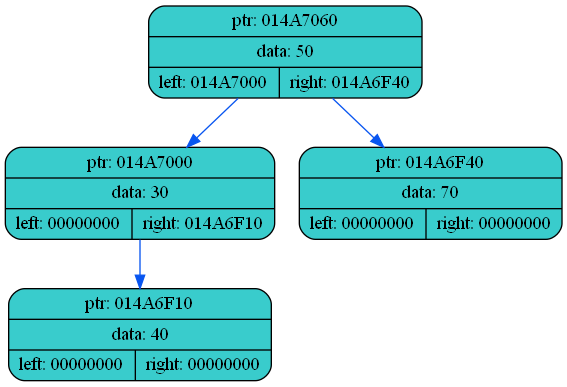
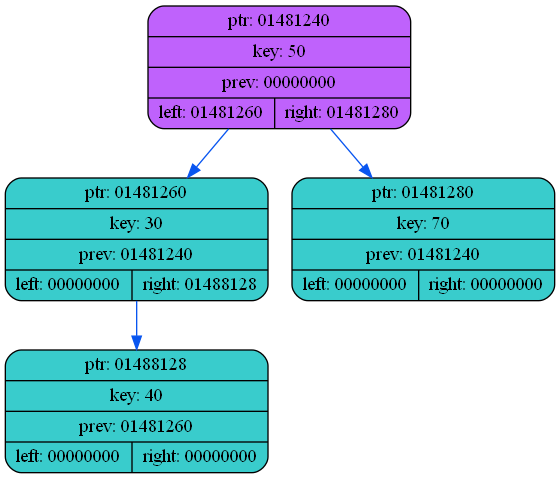
bintree completed

Changed region(s): [[0.2429, 0.0, 1.0, 0.6512], [0.0, 0.3411, 0.4857, 0.9922]]

diff --git a/src/bin_tree.cpp b/src/bin_tree.cpp
@@ -1,6 +1,6 @@
 #include "bin_tree.h"
 
-node_t* new_node(int data, node_t* left, node_t* right)
+node_t* new_node(int key, node_t* left, node_t* right)
 {
     node_t* node = (node_t*)calloc(1, sizeof(node_t));
     if (!node)
@@ -8,127 +8,25 @@ node_t* new_node(int data, node_t* left, node_t* right)
         fprintf(stderr, "ERROR: Calloc returned NULL in new_node()");
         return NULL;
     }
-    node -> data  = data;
+    node -> key  = key;
     node -> left  = left;
     node -> right = right;
 
     return node;
 }
 
-int add_node(node_t* node, int data)
+int add_node(node_t* node, int key)
 {
-    if (node -> data < data)
-    {
-        if (node -> right) { add_node(node -> right, data); }
-        else
-        {
-            node -> right = new_node(data, NULL, NULL);
-            if (!node -> right) { fprintf(stderr, "ERROR: ADDITION FIALED on node [%p]\n", node); }
-        }
-    }
+    node_t** temp = NULL;
+    if (node -> key < key) { temp = &node -> right; }
+    else                   { temp = &node -> left;  }
+
+    if (*temp) { add_node(*temp, key); }
     else
     {
-        if (node -> left) { add_node(node -> left, data); }
-        else
-        {
-            node -> left = new_node(data, NULL, NULL);
-            if (!node -> left) { fprintf(stderr, "ERROR: ADDITION FIALED on node [%p]\n", node); }
-        }
-    }
-
-    return 0;
-}
-
-FILE* prepare_to_dump()
-{
-    system("make clean_data\n");
-    FILE* fp = fopen("list_dump.html", "w");
-    if (fp == NULL)
-    {
-        fprintf(stderr, "ERROR: Cannot open html file fot dump\n");
-        return NULL;
-    }
-    fprintf(fp, "<pre>\n");
-
-    return fp;
-}
-
-int tree_dump(node_t* root, FILE* html_stream)
-{
-    static size_t dump_counter = 1;
-    char dot_file_name[BUFSIZ] = "";
-    char png_file_name[BUFSIZ] = "";
-    sprintf(dot_file_name, "data\\dump%d.dot", dump_counter);
-    sprintf(png_file_name, "data\\dump%d.png", dump_counter);
-
-    FILE* fp = fopen(dot_file_name, "w");
-    if (fp == NULL)
-    {
-        fprintf(stderr, "ERROR: Unable to open file for dump\n");
-        return -1;
-    }
-
-    make_dot_file(root, fp);
-    fclose(fp);
-
-    char command[BUFSIZ] = "";
-    sprintf(command, "dot %s -Tpng -o %s\n", dot_file_name, png_file_name);
-    system(command);
-
-    dump_to_html(root, png_file_name, html_stream);
-
-    dump_counter++;
-    return 0;
-}
-
-int dump_to_html(node_t* root, char* png_file_name, FILE* html_stream)
-{
-    assert(root);
-    assert(png_file_name);
-
-    fprintf(html_stream, "MEMORY PRINT\n");
-    print_tree(root, html_stream);
-
-    fprintf(html_stream, "\n<img src=%s>\n", png_file_name);
-
-    return 0;
-}
-
-int make_dot_file(node_t* root, FILE* fp)
-{
-    assert(fp);
-    assert(root);
-
-    fprintf(fp, "digraph\n{\n"
-                "    rankdir=TP\n\n"
-                "    ");
-
-    write_node_info(root, fp);
-
-    fprintf(fp, "}");
-
-    printf("dot file completed\n");
-    return 0;
-}
-
-int write_node_info(node_t* node, FILE* fp)
-{
-    assert(fp);
-
-    if (!node) { return 1; }
-
-    fprintf(fp, "    node%p[shape=record,style=\"rounded,filled\",fillcolor=\"#39CCCC\",label=\"{ ptr: %p | data: %d | { left: %p | right: %p }}\"];\n",
-            node, node, node -> data, node -> left, node -> right);
-
-    if (node -> left)
-    {
-        fprintf(fp, "    node%p -> node%p[color=\"#0855F0\"]\n", node, node -> left);
-        write_node_info(node -> left, fp);
-    }
-    if (node -> right)
-    {
-        fprintf(fp, "    node%p -> node%p[color=\"#0855F0\"]\n", node, node -> right);
-        write_node_info(node -> right, fp);
+        *temp = new_node(key, NULL, NULL);
+        if (!*temp) { fprintf(stderr, "ERROR: ADDITION FIALED on node [%p]\n", node);  return -1;}
+        (*temp) -> prev = node;
     }
 
     return 0;
@@ -142,7 +40,7 @@ int print_tree(node_t* node, FILE* stream)
 
     fprintf(stream, "{");
     if (node -> left)  { print_tree(node -> left, stream);  }
-    fprintf(stream, "%d", node -> data);
+    fprintf(stream, "%d", node -> key);
     if (node -> right) { print_tree(node -> right, stream); }
     fprintf(stream, "}");
 

diff --git a/src/tree_dump.cpp b/src/tree_dump.cpp
@@ -1,0 +1,106 @@
+#include "tree_dump.h"
+
+
+FILE* prepare_to_dump()
+{
+    system("make clean_data\n");
+    FILE* fp = fopen("list_dump.html", "w");
+    if (fp == NULL)
+    {
+        fprintf(stderr, "ERROR: Cannot open html file fot dump\n");
+        return NULL;
+    }
+    fprintf(fp, "<pre>\n");
+
+    return fp;
+}
+
+int tree_dump(node_t* root, FILE* html_stream, node_t* curr)
+{
+    static size_t dump_counter = 1;
+    char dot_file_name[BUFSIZ] = "";
+    char png_file_name[BUFSIZ] = "";
+    sprintf(dot_file_name, "data\\dump%d.dot", dump_counter);
+    sprintf(png_file_name, "data\\dump%d.png", dump_counter);
+
+    FILE* fp = fopen(dot_file_name, "w");
+    if (fp == NULL)
+    {
+        fprintf(stderr, "ERROR: Unable to open file for dump\n");
+        return -1;
+    }
+
+    make_dot_file(root, fp, curr);
+    fclose(fp);
+
+    char command[BUFSIZ] = "";
+    sprintf(command, "dot %s -Tpng -o %s\n", dot_file_name, png_file_name);
+    system(command);
+
+    dump_to_html(root, png_file_name, html_stream, curr);
+
+    dump_counter++;
+    return 0;
+}
+
+int dump_to_html(node_t* root, char* png_file_name, FILE* html_stream, node_t* curr)
+{
+    assert(root);
+    assert(png_file_name);
+
+    fprintf(html_stream, "MEMORY PRINT\n");
+    print_tree(root, html_stream);
+    printf("\ncurr = %p\n", curr);
+
+    fprintf(html_stream, "\n<img src=%s>\n", png_file_name);
+
+    return 0;
+}
+
+int make_dot_file(node_t* root, FILE* fp, node_t* curr)
+{
+    assert(fp);
+    assert(root);
+
+    fprintf(fp, "digraph\n{\n"
+                "    rankdir=TP\n\n"
+                "    ");
+
+    write_node_info(root, fp, curr);
+
+    fprintf(fp, "}");
+
+    printf("dot file completed\n");
+    return 0;
+}
+
+int write_node_info(node_t* node, FILE* fp, node_t* curr)
+{
+    assert(fp);
+
+    if (!node) { return 1; }
+
+    if (node == curr)
+    {
+        fprintf(fp, "    node%p[shape=record,style=\"rounded,filled\",fillcolor=\"#BF62FC\",label=\"{ ptr: %p | key: %d | prev: %p| { left: %p | right: %p }}\"];\n",
+                node, node, node -> key, node -> prev, node -> left, node -> right);
+    }
+    else
+    {
+        fprintf(fp, "    node%p[shape=record,style=\"rounded,filled\",fillcolor=\"#39CCCC\",label=\"{ ptr: %p | key: %d | prev: %p | { left: %p | right: %p }}\"];\n",
+                node, node, node -> key, node -> prev, node -> left, node -> right);
+    }
+
+    if (node -> left)
+    {
+        fprintf(fp, "    node%p -> node%p[color=\"#0855F0\"]\n", node, node -> left);
+        write_node_info(node -> left, fp, curr);
+    }
+    if (node -> right)
+    {
+        fprintf(fp, "    node%p -> node%p[color=\"#0855F0\"]\n", node, node -> right);
+        write_node_info(node -> right, fp, curr);
+    }
+
+    return 0;
+}

diff --git a/headers/bin_tree.h b/headers/bin_tree.h
@@ -8,20 +8,16 @@
 #include <assert.h>
 
 struct node_t {
-    int data;
+    int key;
+    void* data;
     node_t* left;
     node_t* right;
+    node_t* prev;
 };
 
 
 node_t* new_node(int data, node_t* left, node_t* right);
 int add_node(node_t* node, int data);
-
-FILE* prepare_to_dump();
-int tree_dump(node_t* root, FILE* html_stream);
-int dump_to_html(node_t* root, char* png_file_name, FILE* html_stream);
-int make_dot_file(node_t* root, FILE* fp);
-int write_node_info(node_t* node, FILE* fp);
 int print_tree(node_t* node, FILE* stream);
 
 int tree_dtor(node_t* node);

diff --git a/headers/tree_dump.h b/headers/tree_dump.h
@@ -1,0 +1,18 @@
+#ifndef _TREE_DOT_DUMP_H__
+#define _TREE_DOT_DUMP_H__
+
+#include <TXLib.h>
+#include <stdio.h>
+#include <stdlib.h>
+#include <string.h>
+#include <assert.h>
+
+#include "bin_tree.h"
+
+FILE* prepare_to_dump();
+int tree_dump(node_t* root, FILE* html_stream, node_t* curr);
+int dump_to_html(node_t* root, char* png_file_name, FILE* html_stream, node_t* curr);
+int make_dot_file   (node_t* root, FILE* fp, node_t* curr);
+int write_node_info (node_t* node, FILE* fp, node_t* curr);
+
+#endif

diff --git a/src/main.cpp b/src/main.cpp
@@ -1,4 +1,5 @@
 #include "bin_tree.h"
+#include "tree_dump.h"
 
 int main()
 {
@@ -13,9 +14,9 @@ int main()
     add_node(root, 40);
 
     print_tree(root, stdout);
-    tree_dump(root, html_stream);
+    tree_dump(root, html_stream, root);
     add_node(root, 12);
-    tree_dump(root, html_stream);
+    tree_dump(root, html_stream, root);
 
     tree_dtor(root);
 
